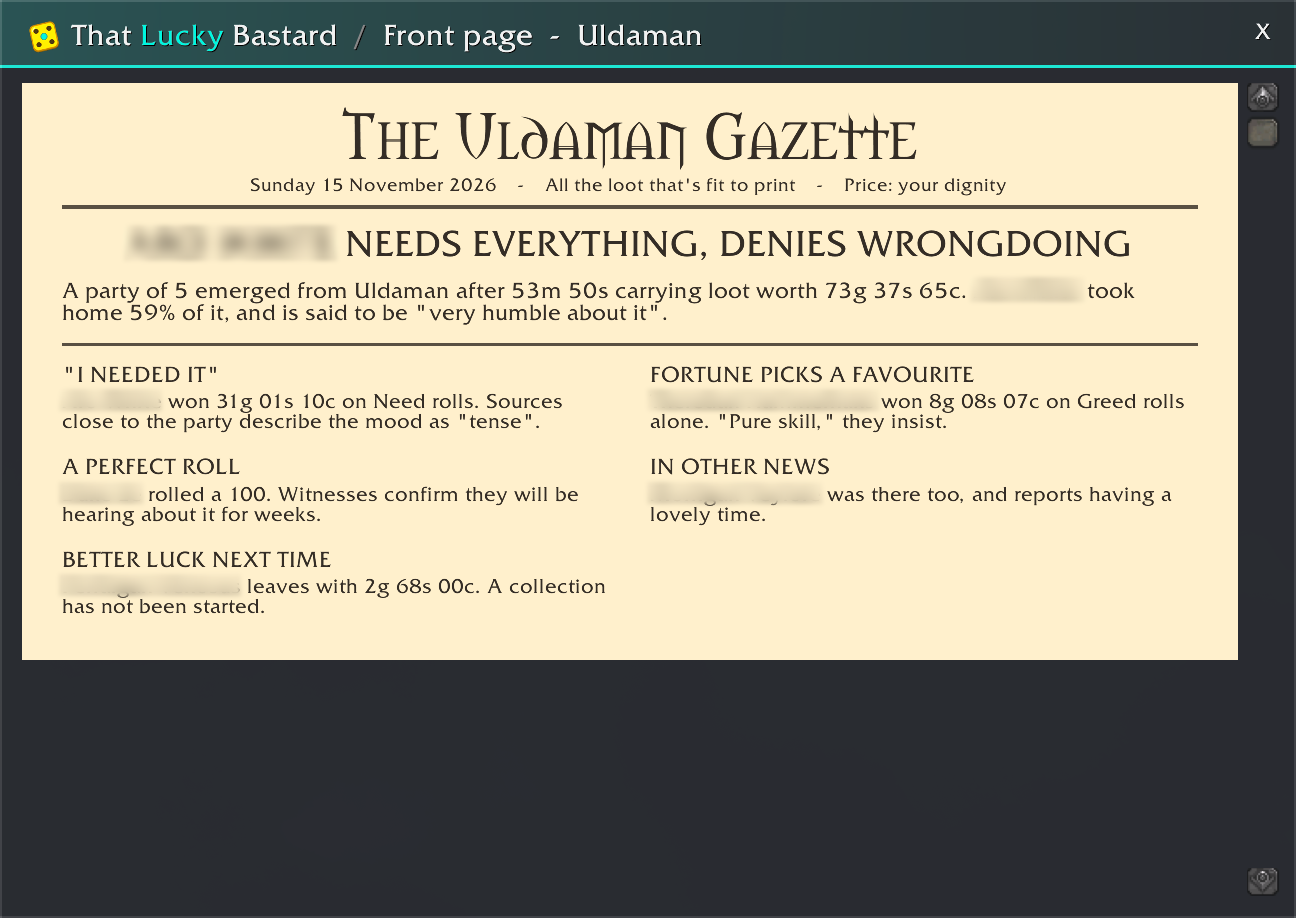
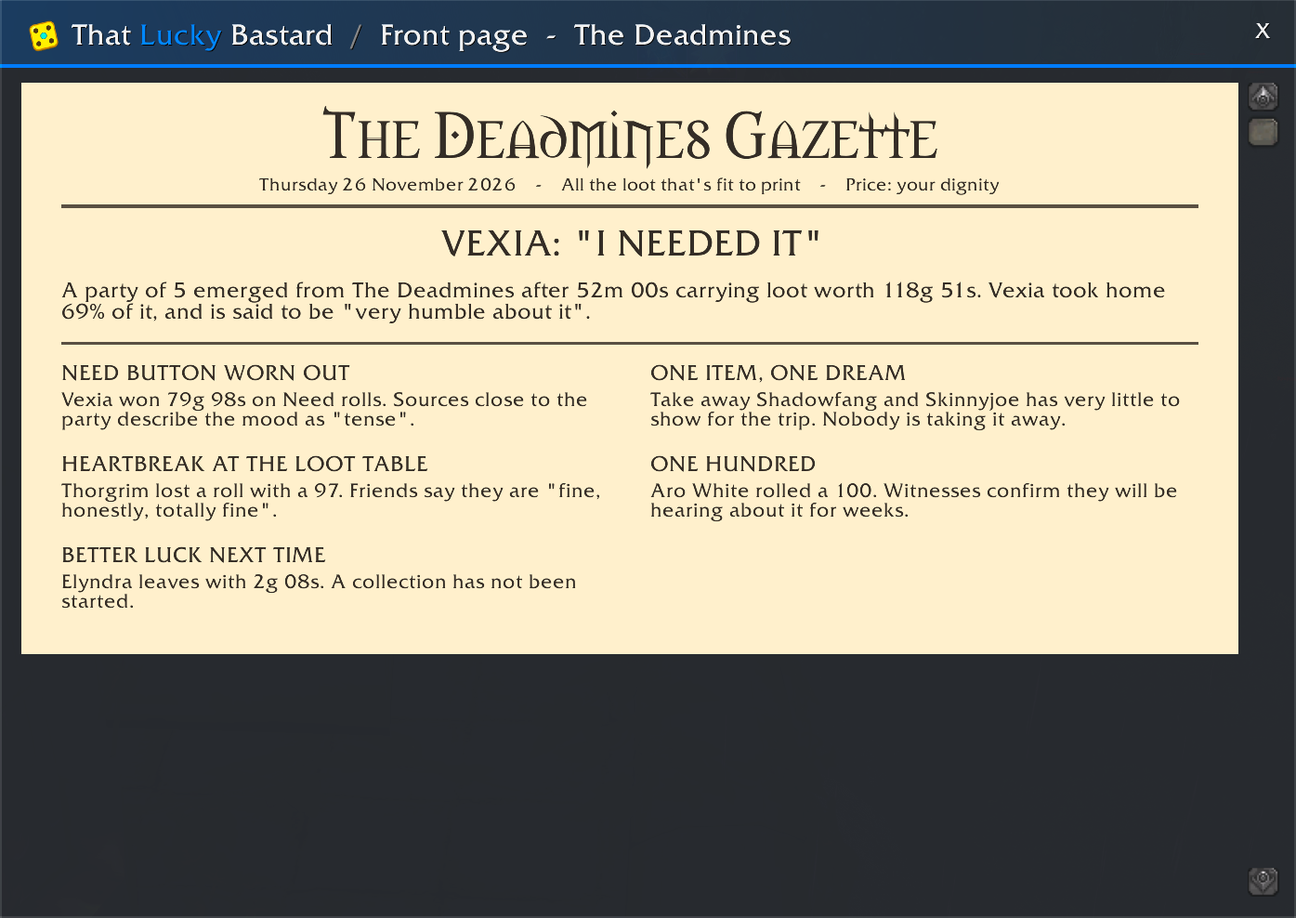
README and DETAILS: new pictures from the example runs

diff --git a/DETAILS.md b/DETAILS.md
@@ -8,7 +8,7 @@ Everything the addon does, page by page, with its commands, options and limits. 
 - **Per item:** every item with its count and value, grouped by category: epic, blue and green BoE, Bind on Pickup, quest items, profession materials, other, coins, junk. Coins are one sum per player, with no items under it.
 - **Item menu:** right-click an item. *Auction price* or *Vendor price* sets its price for every copy in the run. *Ignore* keeps it listed, worth nothing: no value, no item count, no award, no drop in the statistics. For a stack, - and + set how many copies are ignored. *Split with* shares its value equally between the players you tick: it then shows under each of them with their share (1/2, 1/3...). Untick its looter to give it to the others. Copies picked up and roll wins stay with the looter; the value, Need and Greed value included, follows the shares. Ignore and Split cover the copies already looted: later copies follow the general rule, so a later copy of a split item shows as a line of its own. These marks are saved with the run and travel in its share code (versions before 0.7.0 read past them; 0.8.0 counts a partly ignored stack in full).
 - **Enchanting materials:** dust, essences, shards and crystals (Trade Goods › Enchanting) are ignored as they are looted, by anyone: nearly all come from disenchanting an item already counted. Counted again in the item menu, for the rare one from a chest. They close no bet calls and get no loot notice. Runs looted before 0.8.1 stay as they are. Statistics counted when the run closed keep what they counted.
-- **Two layouts:** one column per player (with portraits), or an expandable list. A group of more than five gets columns for its top five by loot, and the others on a *bench* under them: small cards side by side, each with a picture, the name, the award and the loot value one under the other (the options say which). One row of them is shown; it ends with an arrow marked **List**, with the number of players the row had no room for under it, which shows that run as a list without touching the option. At the top of the list its mirror, an arrow marked **Columns**, brings the columns back.
+- **Columns or list:** one column per player (with portraits), or an expandable list. A group of more than five gets columns for its top five by loot, and the others on a *bench* under them: small cards side by side, each with a picture, the name, the award and the loot value one under the other (the options say which). One row of them is shown; it ends with an arrow marked **List**, with the number of players the row had no room for under it, which shows that run as a list without touching the option. At the top of the list its mirror, an arrow marked **Columns**, brings the columns back.
 - **Mini mode:** the third layout (Options › Breakdown), in any theme. The window becomes a small one: under its title bar, one card per player with their picture, name, award and total (as far as the options show them), the biggest total first unless another order is chosen. There are no columns, no loot, no footer, and no buttons but the cogwheel beside the cross, which opens the options (in the full window it is at the foot, where the Options button was); the window is exactly as big as its cards: about 570 by 150 for five players, narrower for fewer, with only the dungeon's short name in its title bar (ZF, Mara, KDS, as in the meter). A run of more than five players shows its top five, and the row then ends with an arrow that counts the others and shows the run as a list in the full window, where the Columns arrow leads back. There is no race in mini mode.
 - **Need rolls:** Analysis › Rolls has an All | Need switch. Need lists only what was won on Need, with each player's Need wins and what they are worth. Hovering an item shows whether it was won on Need or Greed, and everyone's roll on it.
 - **The race:** when you leave a run alive, its columns race for their places (each time you leave it: go back in, and it is run again on the way out). They start side by side in name order, with no total showing. Each player's loot falls into their column as gold coins, one at a time and all at the same pace: they fall, spin, bounce and settle into a stack, with a clink as they land. When a player's last coin is down, their total is shown with their place. So the smallest stack is done first and takes the last place, and the last one still growing has won. A winner with half as much again as the next player or more fills their column, and the rest pours over the top, faster, rolling down into a heap around the stack. The columns then move to their places on the podium, and the loot, the shares and the awards appear. It takes about five seconds, and a click on the columns skips it; `/tlb race` plays it again for the run on show. It needs one column per player in podium order (both are the defaults) and two players or more with some loot between them; it can be switched off under End of run.
@@ -24,7 +24,7 @@ Everything the addon does, page by page, with its commands, options and limits. 
 
 Two windows about the run on show, opened from the main window's top row. Each closes again on a second click.
 
-- **Front page:** a mock newspaper written from the run, with a short story for every award. The headline goes to the run's most outstanding award: the one furthest from normal, whoever has it.
+- **Front page:** a mock newspaper written from the run, with a short story for every award. The headline goes to the run's most outstanding award: the one furthest from normal, whoever has it. Opened during a run, it reports on the run so far.
 - **Analysis:** three tabs about the run, following the main window from run to run:
   - *Timeline:* a chart of every player's running total through the run, with boss kills marked. You see when someone pulled ahead, and which drop did it.
   - *Rolls:* every roll that was won: the item, the winner, and what everyone else rolled.
@@ -95,7 +95,8 @@ A run starts automatically when you enter a dungeon (and raids, if enabled). The
 
 | Command | Effect |
 | --- | --- |
-| `/tlb` or `/lucky` | Open or close the window |
+| `/tlb` | Open or close the window |
+| `/tlb help` | List every command |
 | `/tlb options` | Open the options |
 | `/tlb paper` | The front page of the run on show |
 | `/tlb race` | The race again, for the run on show |
@@ -186,7 +187,7 @@ The commands changed with the name: `/fs` is now `/tlb`.
 
 ## Example data
 
-`ThatLuckyBastard_Example` is an optional test addon, found in the source repository rather than in the download. It adds three fake runs so the window can be tried without running a dungeon. Its runs are never saved; disable or delete it to remove them.
+`ThatLuckyBastard_Example` is an optional test addon, found in the source repository rather than in the download. It adds three made-up runs, with rolls, boss kills and coins, so every window can be tried without running a dungeon. Its runs are never saved; disable or delete it to remove them.
 
 ## Development
 
@@ -198,52 +199,10 @@ python tests/luacheck.py ThatLuckyBastard/*.lua
 
 `luacheck.py` compiles every file and fails one that nears Lua's limits (180 of 200 top-level locals, 50 of 60 outside variables in a function) or uses a global name missing from `tests/globals.txt`. The main window is `UI.lua` plus `Receipt`, `Footer`, `Bench`, `Columns` and `Race`, loaded in that order and sharing the `ns.Breakdown` table.
 
+Each `tests/test_*.lua` file is a suite, run on its own:
+
 ```bash
 python tests/run_tests.py ThatLuckyBastard tests/test_ui.lua
-```
-
-```bash
-python tests/run_tests.py ThatLuckyBastard tests/test_pin.lua
-```
-
-```bash
-python tests/run_tests.py ThatLuckyBastard tests/test_looks.lua
-```
-
-```bash
-python tests/run_tests.py ThatLuckyBastard tests/test_audit.lua
-```
-
-```bash
-python tests/run_tests.py ThatLuckyBastard tests/test_share.lua
-```
-
-```bash
-python tests/run_tests.py ThatLuckyBastard tests/test_options.lua
-```
-
-```bash
-python tests/run_tests.py ThatLuckyBastard tests/test_receipt.lua
-```
-
-```bash
-python tests/run_tests.py ThatLuckyBastard tests/test_summary.lua
-```
-
-```bash
-python tests/run_tests.py ThatLuckyBastard tests/test_regulars.lua
-```
-
-```bash
-python tests/run_tests.py ThatLuckyBastard tests/test_awards.lua
-```
-
-```bash
-python tests/run_tests.py ThatLuckyBastard tests/test_lifecycle.lua
-```
-
-```bash
-python tests/run_tests.py ThatLuckyBastard tests/test_storage.lua
 ```
 
 `tools/make_logo.py` draws the addon's mark (needs Pillow); the brand colours live at the top of `ThatLuckyBastard/Core.lua`. `tools/make_receipt_edge.py` draws the torn edge of the Receipt theme's receipts, and `tools/make_coin.py` the race's coin, which is our own drawing.

diff --git a/README.md b/README.md
@@ -6,7 +6,7 @@ A World of Warcraft addon for **WoW Forever** that shows who got what in a dunge
 
 It records what every player in your group loots, puts a gold value on it, and shows the result when you leave the dungeon. It never sends a chat message on its own: what it shows stays on your screen unless you share a run.
 
-![The breakdown window after a run of Alcaz Prison](https://raw.githubusercontent.com/Dreskn/ThatLuckyBastard/main/.previews/run.png)
+![The breakdown after a run of The Deadmines](https://raw.githubusercontent.com/Dreskn/ThatLuckyBastard/main/.previews/run.png)
 
 ## What you get
 
@@ -20,9 +20,9 @@ It records what every player in your group loots, puts a gold value on it, and s
 - **While you play:** notices for valuable loot and familiar faces, one line in player and item tooltips, and a bet on the lucky bastard.
 - **Sharing:** post a run as a link in chat or as a short summary anyone can read, or copy it as a code to paste anywhere. Players with the addon open links and codes.
 
-| ![The front page](https://raw.githubusercontent.com/Dreskn/ThatLuckyBastard/main/.previews/paper.png) | ![The timeline](https://raw.githubusercontent.com/Dreskn/ThatLuckyBastard/main/.previews/timeline.png) |
+| ![The race: each player's loot falls into their column as coins](https://raw.githubusercontent.com/Dreskn/ThatLuckyBastard/main/.previews/race.png) | ![The front page](https://raw.githubusercontent.com/Dreskn/ThatLuckyBastard/main/.previews/paper.png) |
 | --- | --- |
-| ![Statistics: dungeons](https://raw.githubusercontent.com/Dreskn/ThatLuckyBastard/main/.previews/stats.png) | ![Sharing a run](https://raw.githubusercontent.com/Dreskn/ThatLuckyBastard/main/.previews/share.png) |
+| ![The timeline](https://raw.githubusercontent.com/Dreskn/ThatLuckyBastard/main/.previews/timeline.png) | ![The meter](https://raw.githubusercontent.com/Dreskn/ThatLuckyBastard/main/.previews/meter.png) |
 
 ## How loot is valued
 
@@ -33,7 +33,7 @@ It records what every player in your group loots, puts a gold value on it, and s
 ## Install and use
 
 1. Put the `ThatLuckyBastard` folder in the Forever client's `Interface\AddOns` folder.
-2. Restart the game or type `/reload`.
+2. Restart the game or `/reload` UI.
 
 A run starts when you enter a dungeon, and the window opens when you leave it alive.
 
@@ -54,6 +54,6 @@ The minimap button does the same: left-click for the window, right-click for the
 
 ## More
 
-- [Details](https://github.com/Dreskn/ThatLuckyBastard/blob/main/DETAILS.md): every page, option, command and limit, and how to move over from FairShare, the addon's name until 0.2.2.
+- [Details](https://github.com/Dreskn/ThatLuckyBastard/blob/main/DETAILS.md): every page, option, command and limit.
 - [Changelog](https://github.com/Dreskn/ThatLuckyBastard/blob/main/CHANGELOG.md)
 - [MIT license](https://github.com/Dreskn/ThatLuckyBastard/blob/main/LICENSE)
